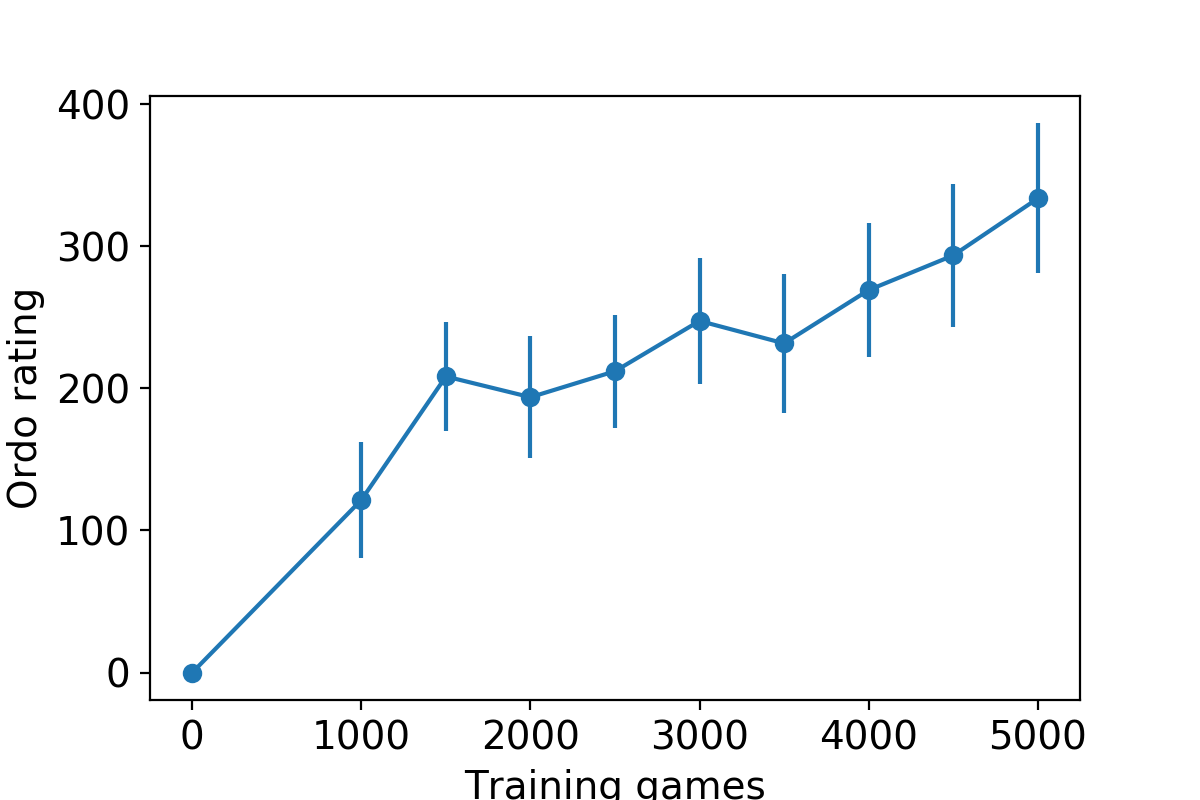
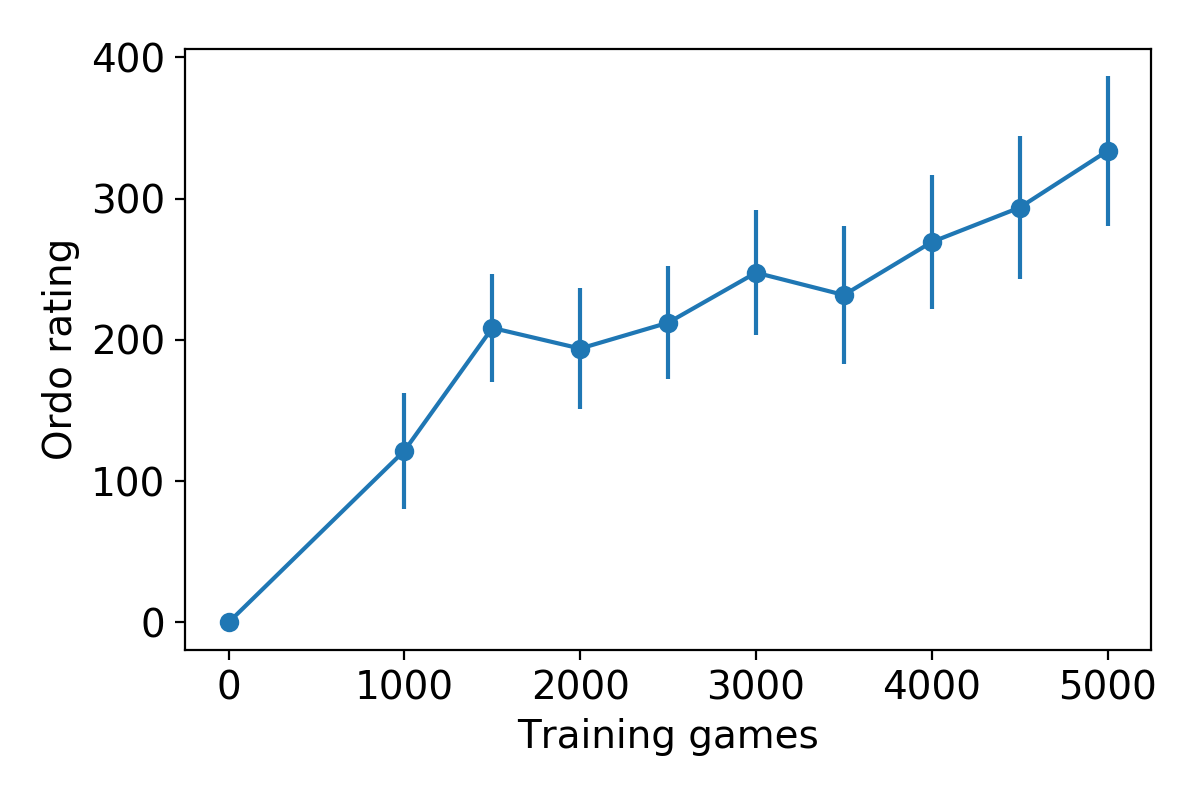
Update Ordo.png

diff --git a/README.md b/README.md
@@ -12,7 +12,7 @@ Run `gui.py` to play against a neural network.
 * A mini-board is finished when it is won by a player (3 in a row) or all tiles are taken (tie). A player can play in any mini-board if the one pointed to is finished.
 * The game is won when a player wins the big board (3 mini-boards in a row). Tied mini-boards do not count for either player. The game is tied when neither player can win the big board.
 
-## Selfplay strength estimates
+## Selfplay strength estimate
 <p>
-<img src="./images/Ordo.png" width="360" height="240">
+<img src="./images/Ordo.png" width="390" height="260">
 </p>
